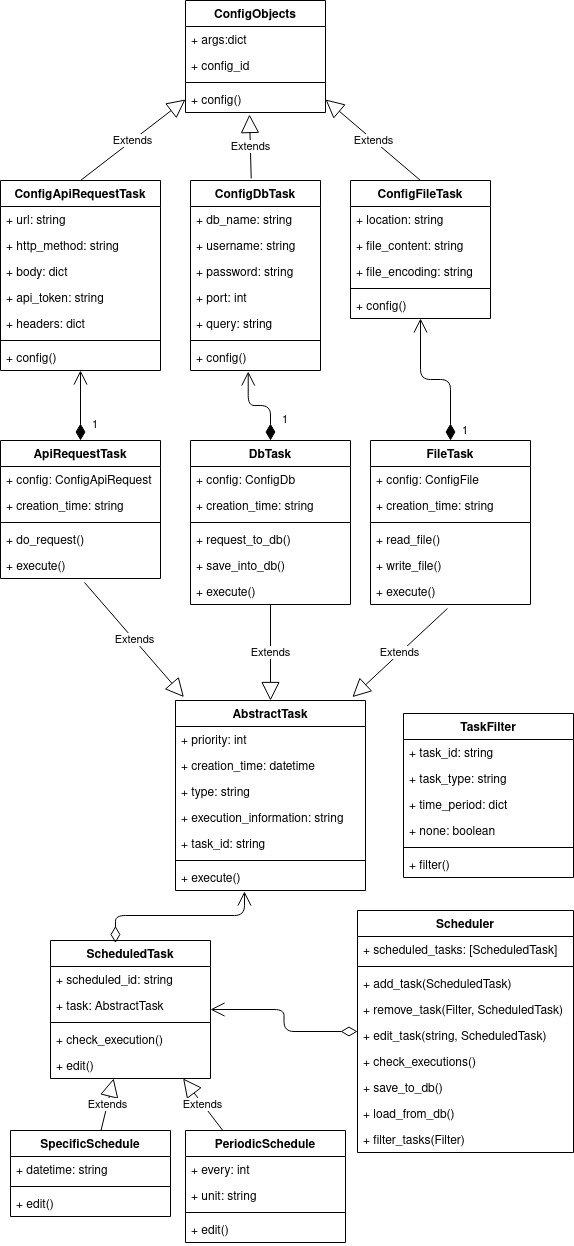
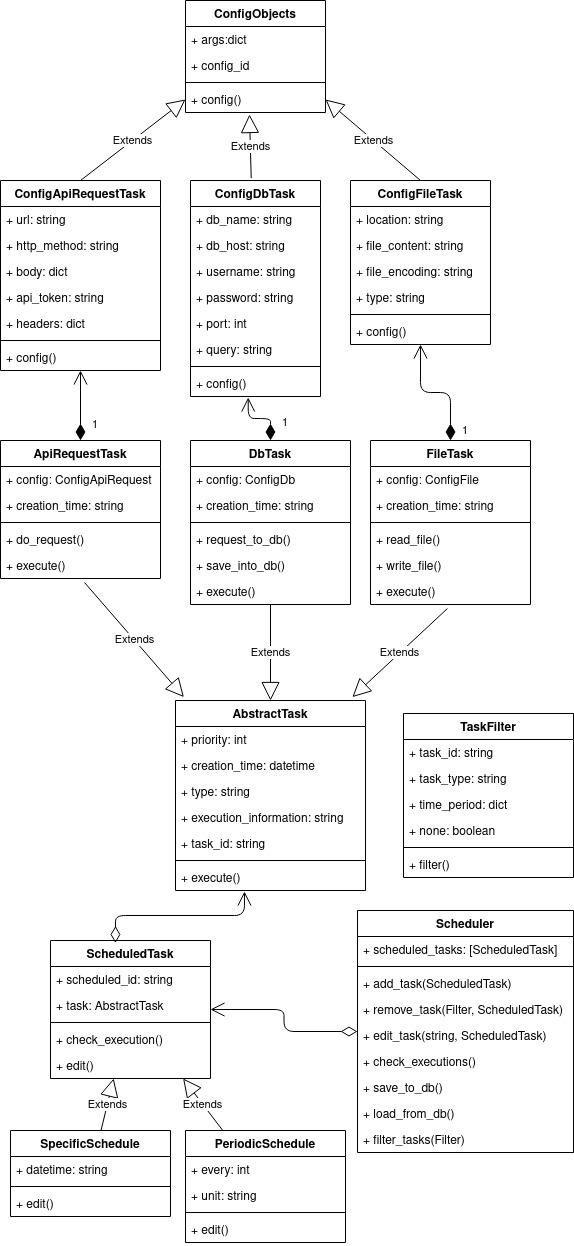
Added config_objects classes

Changed region(s): [[0.3554, 0.183, 0.5331, 0.3355], [0.622, 0.2135, 0.7404, 0.305]]

diff --git a/task_scheduler/tasks/config_objects.py b/task_scheduler/tasks/config_objects.py
@@ -1,5 +1,88 @@
 class ConfigObject:
     def __init__(self, args={}):
         self.args = args
-        self.config_id = ''
+        # TODO: Define how to get the config_id property
+        self._config_id = ''
 
+    @property
+    def config_id(self):
+        return self._config_id
+
+    @config_id.setter
+    def config_id(self, value):
+        self._config_id = value
+
+    def config(self):
+        """ Derived classes should implement this"""
+        pass
+
+
+class ConfigApiRequestTask(ConfigObject):
+    def __init__(self,
+                 url, http_method='get', body={}, api_token='', headers={}):
+        self.url = url
+        self.http_method = http_method
+        self.body = body
+        self.api_token = api_token
+        self.headers = headers
+        super().__init__({
+            'url': url,
+            'http_method': http_method,
+            'body': body,
+            'api_token': api_token,
+            'headers': headers
+        })
+
+    def config(self, dict):
+        self.url = dict.get('url', '')
+        self.http_method = dict.get('http_method', 'get')
+        self.body = dict.get('body',{})
+        self.api_token = dict.get('http_token', '')
+        self.headers = dict.get('headers', '')
+
+
+class ConfigDbTask(ConfigObject):
+    def __init__(self, db_name, db_host='localhost', username='',
+                 password='', port=4000, query=''):
+        self.db_name = db_name
+        self.db_host = db_host
+        self.username = username
+        self.password = password
+        self.port = port
+        self.query = query
+        super().__init__({
+            'db_name': db_name,
+            'db_host': db_host,
+            'username': username,
+            'password': password,
+            'port': port,
+            'query': query
+        })
+
+    def config(self, dict):
+        self.db_name = dict.get('db_name', '')
+        self.db_host = dict.get('db_host', 'localhost')
+        self.username = dict.get('username', '')
+        self.password = dict.get('password', '')
+        self.port = dict.get('port', '')
+        self.query = dict.get('query', '')
+
+class ConfigFileTask(ConfigObject):
+    def __init__(self, location,
+                 file_content='', file_encoding='utf-8', type='read'):
+        self.location = location
+        self.file_content = file_content
+        self.file_encoding = file_encoding
+        self.type = type
+        super().__init__({
+            'location': location,
+            'file_content': file_content,
+            'file_encoding': file_encoding,
+            'type': type
+        })
+
+    def config(self, dict):
+        self.location = dict.get('location', '')
+        self.file_content = dict.get('file_content', '')
+        self.file_encoding = dict.get('file_encoding', 'utf-8')
+        self.type = dict.get('type', 'read')
